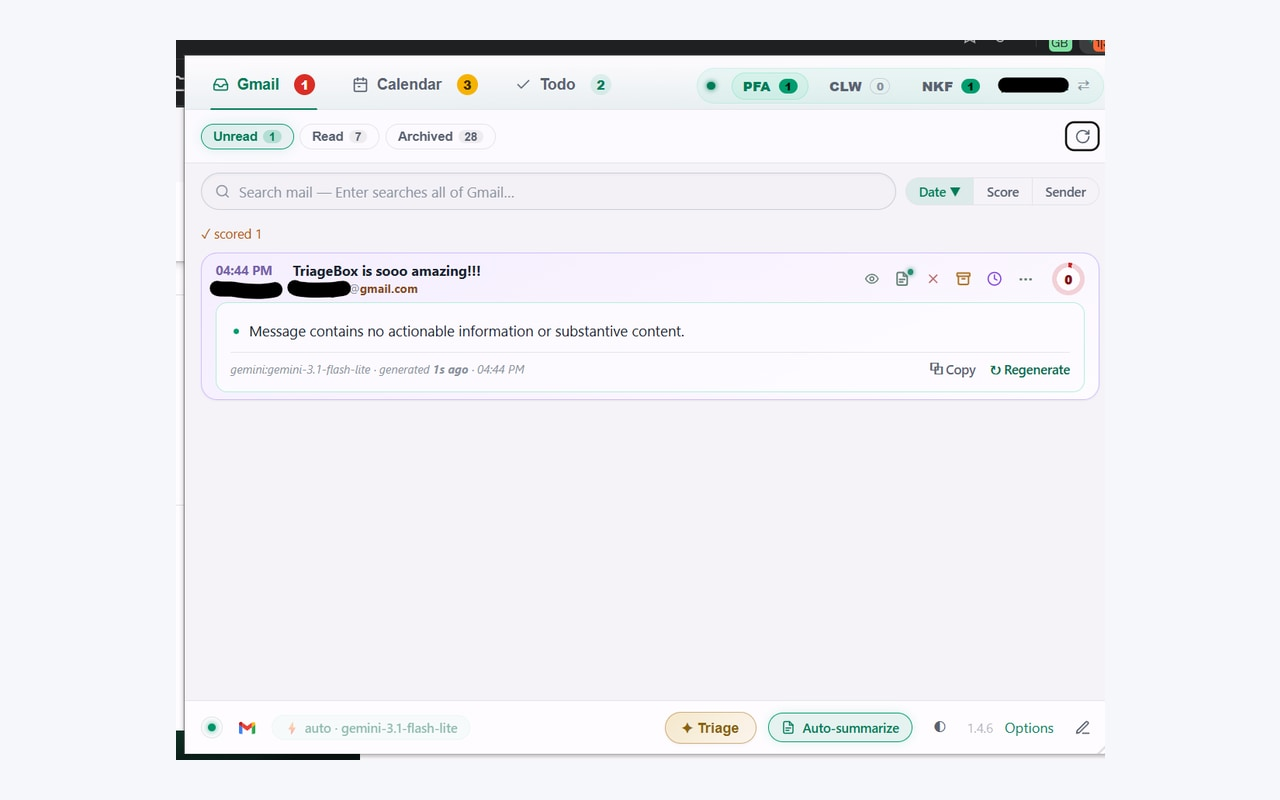
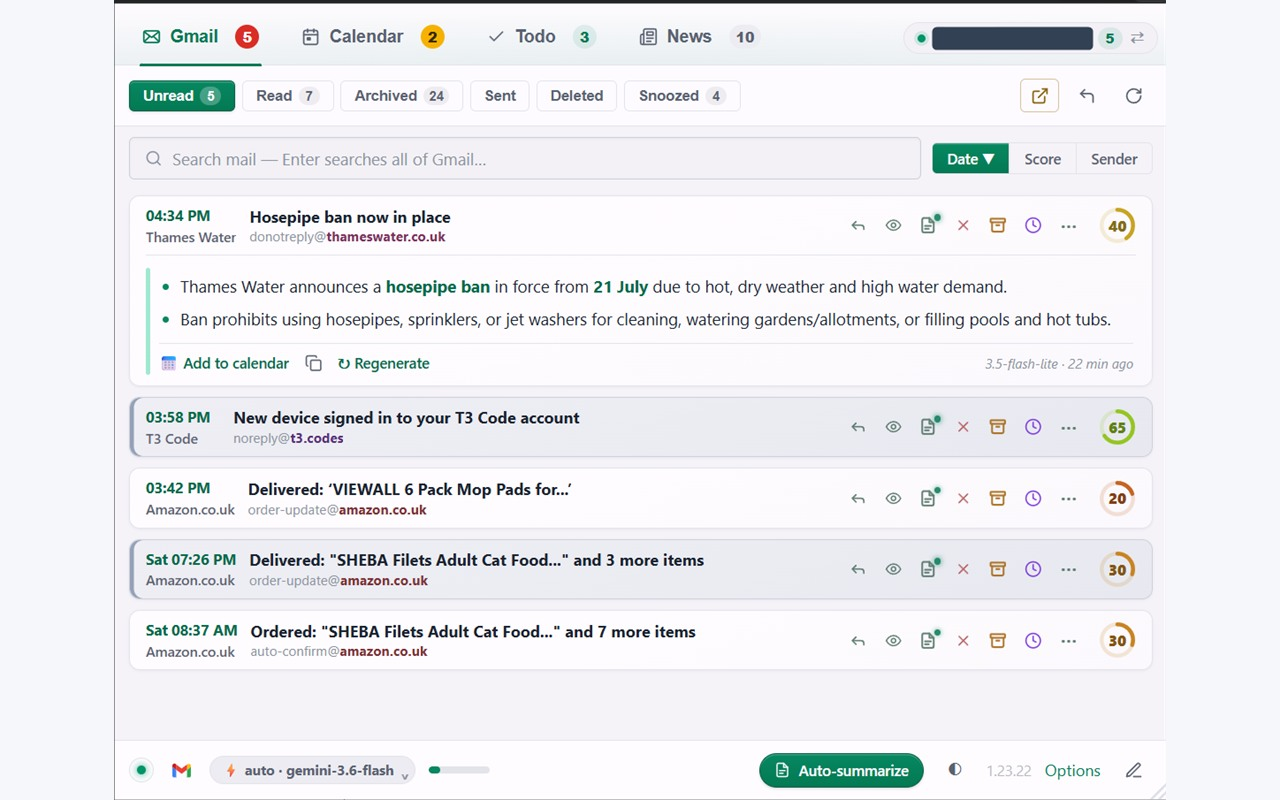
fix(site): replace 1.4.6 og-card with the live Gmail popup (#12)
Homepage hero and every OG/Twitter unfurl still showed the 1.4.6 inbox mock
(store-assets/out/shot1, subject "TriageBox is sooo amazing!!!"). The Chrome
Web Store listing already uses the Gmail queue screenshot. Point og-card.jpg
at that 1280×800 popup so Add-to-Chrome sees the same product as the store.

diff --git a/checker-plus-alternative.html b/checker-plus-alternative.html
@@ -113,7 +113,7 @@
           <span></span><span></span><span></span>
           <b>TriageBox</b>
         </div>
-        <img src="./og-card.jpg" width="1280" height="800" alt="TriageBox popup: Gmail queue with one-click archive, snooze and sweep actions beside a reading pane" />
+        <img src="./og-card.jpg" width="1280" height="800" alt="TriageBox Gmail queue with unread scores, one-click archive and snooze, and an AI summary on the open thread" />
         <figcaption>The pile, as a queue — not a notification list.</figcaption>
       </figure>
     </section>

diff --git a/index.html b/index.html
@@ -159,7 +159,7 @@
           <span></span><span></span><span></span>
           <b>TriageBox</b>
         </div>
-        <img src="./og-card.jpg" width="1280" height="800" alt="TriageBox inbox showing Gmail, Calendar and Todo tabs with an AI summary and one-click actions" />
+        <img src="./og-card.jpg" width="1280" height="800" alt="TriageBox Gmail queue with unread scores, one-click archive and snooze, and an AI summary on the open thread" />
         <figcaption>One focused view for mail, calendar and tasks.</figcaption>
       </figure>
     </section>
